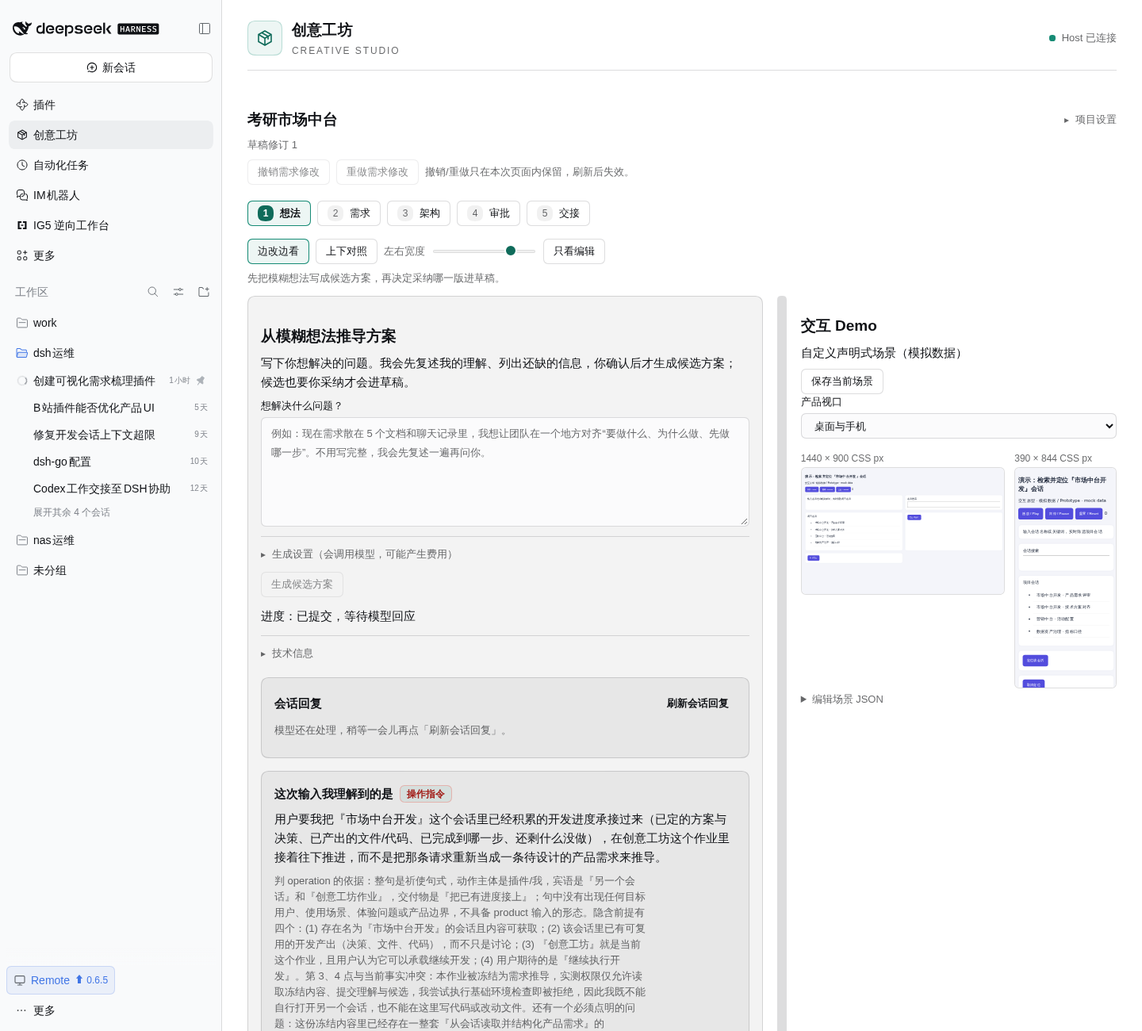
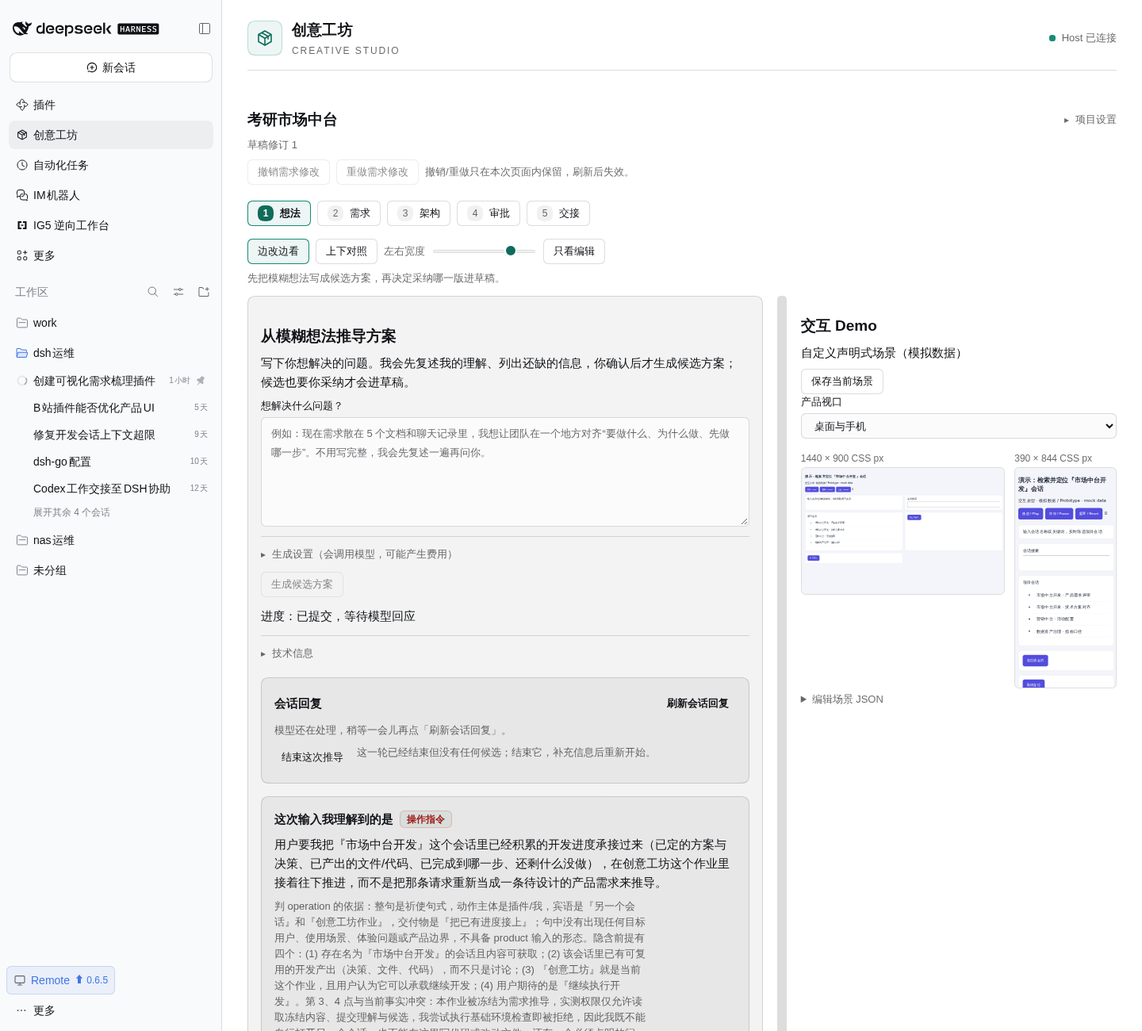
feat: 停滞的推导可手动结束并重新开始（按钮仅在会话未运行时出现）

Changed region(s): [[0.2188, 0.7077, 0.6562, 1.0]]

diff --git a/src/client.ts b/src/client.ts
@@ -14,7 +14,7 @@ const dictionaries = {
     researchTitle:'参考实现研究',researchSource:'选择参考来源',researchWorkspace:'选择研究工作区',researchQuestion:'希望梳理哪些功能和实现？',researchStart:'开始只读研究',researchRefresh:'刷新研究结果',researchEvidence:'实际工具调用',researchScopeNotice:'网页先读取指定页面；Host制品使用可用静态工具。不会执行目标程序或切换共享REA目标。',researchConfirm:'确认创建研究会话并调用模型？选定参考内容可能发送给配置的模型；请确认拥有使用权限。可能产生费用。',researchInferenceNotice:'总结是模型推断；工具返回不等于证明所有功能结论。请核对证据与限制。',
     candidateDemo:'查看/收起候选双端 Demo',candidateDemoNotice:'候选预览：未采纳、未审批。仅模拟声明的交互；不代表生产实现。',
     reportsTitle:'实施报告',reportsNotice:'报告和测试证据由 Agent 自报，未独立验证。会话空闲不表示完成；只有你能确认验收。',reportsRefresh:'刷新报告',reportsEmpty:'尚无实施报告。',reportsAccepted:'用户已验收',reportsPending:'待用户验收',reportsDetails:'文件、验收项与测试证据',reportsEvidence:'附带测试证据（Agent 自报）',reportsNoEvidence:'未附测试证据，仅实现自报。',reportsAccept:'确认验收',reportsRevoke:'撤销验收',reportsAcceptConfirm:'确认已亲自核对该任务、验收项、未完成项及证据？这只确认本报告，不自动验收整个项目。',reportsRevokeConfirm:'撤销这份报告的用户验收？',
-    generateTitle:'从模糊想法推导方案',generateConfirm:'确认创建推导会话并调用模型？这不会开始产品开发。',workspaceId:'Harness 工作区 ID',allProjects:'全部项目',projectSettings:'项目设置',projectSettingsHint:'重命名只改标题。删除项目会同时清掉它的版本、交接包和记录，不能撤销。',layoutExploreHint:'左侧梳理需求，右侧同步看 Demo。',layoutCompareHint:'上方编辑，下方并排对照 Demo 与差异。',layoutWidthHint:'拖动调整左侧与右侧 Demo 的宽度比例。',layoutFocusHint:'暂时收起右侧 Demo，专心编辑。',chooserHint:'选择一个项目继续，或新建一个。',chooserSteps:'使用步骤',chooserStep1Title:'① 写下模糊想法',chooserStep1Body:'一句话也行，不用先写成需求文档。',chooserStep2Title:'② 我复述并提问',chooserStep2Body:'先把理解说清楚，列出还缺的信息，你修正或补充。',chooserStep3Title:'③ 你确认后出候选方案',chooserStep3Body:'候选方案由你采纳才进草稿，再由你审批冻结。',model:'模型',modelDefault:'默认模型（部署配置）',modelsUnavailable:'模型列表不可用，将使用部署默认模型',reasoningEffort:'思考强度',effortModelDefault:'跟随模型推荐',roughIdeaHint:'例如：现在需求散在 5 个文档和聊天记录里，我想让团队在一个地方对齐“要做什么、为什么做、先做哪一步”。不用写完整，我会先复述一遍再问你。',generateSettings:'生成设置（会调用模型，可能产生费用）',generateSettingsHint:'默认使用当前部署的模型与工作区，通常不需要改动。',techDetails:'技术信息',jobIdLabel:'作业 ID',jobProgress:'进度',jobReplyLoading:'正在读取会话回复…',jobReplyWaiting:'模型还在处理，稍等一会儿再点「刷新会话回复」。',effortOff:'关闭',effortLow:'低',effortMedium:'中',effortHigh:'高',effortMax:'最高',roughIdea:'想解决什么问题？',generateProposal:'生成候选方案',refreshProposal:'刷新状态与候选',jobStatus:'作业状态',sessionId:'会话 ID',job_queued:'准备派发',job_submitted:'已提交，等待模型回应',job_finished:'候选已返回',generateNotice:'写下你想解决的问题。我会先复述我的理解、列出还缺的信息，你确认后才生成候选方案；候选也要你采纳才会进草稿。',historyUnavailable:'撤销/重做只在本次页面内保留，刷新后失效。',jobElapsed:'已等待',jobMinutes:'分钟',job_failed:'失败',job_unknown:'结果待确认',unknownJob:'派发结果不明确，不会自动重试。请通过对应会话检查执行状态。',briefTitle:'这次输入我理解到的是',intent_product:'产品需求',intent_operation:'操作指令',intent_unclear:'意图不明确',briefGoals:'目标',briefUsers:'使用者',briefScenarios:'使用场景',briefConstraints:'约束',briefUnknowns:'未知项',briefNeeds:'还缺的材料',briefQuestions:'需要你确认',briefNotProduct:'已判定这不是产品需求，不会据此生成候选需求；请按上面「需要你确认」补充材料后再继续。',briefAnswers:'补充材料或回答',briefAnswersHint:'回答上面的问题，或给出可读取的位置（Host 文件、仓库地址、结论摘要）。',briefContinue:'用这些补充继续推导',briefContinueConfirm:'会把补充内容发送给同一会话（可能产生费用）。继续？',briefConfirm:'确认理解，开始推导',briefConfirmConfirm:'确认后会让同一会话据此提交候选需求（可能产生费用）。确认？',briefConfirmed:'理解已确认',briefAbandon:'结束这次推导',briefAbandonConfirm:'结束后可以重新输入一条更清楚的需求。结束？',briefContinueStale:'该项目已被修改，请刷新后再继续。',jobReply:'会话回复',jobReplyRefresh:'刷新会话回复',jobReplyEmpty:'这一轮模型没有写出可见的文字回复。可以看下方候选方案；如果没有候选，点「结束这次推导」重新开始。',jobReplyRecords:'读取到历史记录',jobReplyEndAttempt:'结束这次推导',jobReplyEndHint:'这一轮已经结束但没有任何候选；结束它，补充信息后重新开始。',jobReplyEndConfirm:'结束这次推导？这一轮的会话记录会保留，但不会再生成候选。',jobReplyNeedsRestart:'读取会话回复需要重启一次 dsh web（Host 侧新端点尚未加载）。',jobReplyRunning:'会话仍在运行…',jobReplyEnded:'会话本轮已结束，正在等你确认或补充。',jobReplyTruncated:'（回复过长，已截断）',briefEdit:'修正理解',briefEditHint:'改完保存后，下一轮推导会以你改过的理解为准。',briefSave:'保存理解',briefCancel:'取消',briefIntentLabel:'这是什么类型的输入',briefRestatedLabel:'复述',briefInterpretationLabel:'判断依据',briefListHint:'每行一条',briefSaved:'理解已保存。',
+    generateTitle:'从模糊想法推导方案',generateConfirm:'确认创建推导会话并调用模型？这不会开始产品开发。',workspaceId:'Harness 工作区 ID',allProjects:'全部项目',projectSettings:'项目设置',projectSettingsHint:'重命名只改标题。删除项目会同时清掉它的版本、交接包和记录，不能撤销。',layoutExploreHint:'左侧梳理需求，右侧同步看 Demo。',layoutCompareHint:'上方编辑，下方并排对照 Demo 与差异。',layoutWidthHint:'拖动调整左侧与右侧 Demo 的宽度比例。',layoutFocusHint:'暂时收起右侧 Demo，专心编辑。',chooserHint:'选择一个项目继续，或新建一个。',chooserSteps:'使用步骤',chooserStep1Title:'① 写下模糊想法',chooserStep1Body:'一句话也行，不用先写成需求文档。',chooserStep2Title:'② 我复述并提问',chooserStep2Body:'先把理解说清楚，列出还缺的信息，你修正或补充。',chooserStep3Title:'③ 你确认后出候选方案',chooserStep3Body:'候选方案由你采纳才进草稿，再由你审批冻结。',model:'模型',modelDefault:'默认模型（部署配置）',modelsUnavailable:'模型列表不可用，将使用部署默认模型',reasoningEffort:'思考强度',effortModelDefault:'跟随模型推荐',roughIdeaHint:'例如：现在需求散在 5 个文档和聊天记录里，我想让团队在一个地方对齐“要做什么、为什么做、先做哪一步”。不用写完整，我会先复述一遍再问你。',generateSettings:'生成设置（会调用模型，可能产生费用）',generateSettingsHint:'默认使用当前部署的模型与工作区，通常不需要改动。',techDetails:'技术信息',jobIdLabel:'作业 ID',jobProgress:'进度',jobReplyLoading:'正在读取会话回复…',jobReplyWaiting:'模型还在处理，稍等一会儿再点「刷新会话回复」。',effortOff:'关闭',effortLow:'低',effortMedium:'中',effortHigh:'高',effortMax:'最高',roughIdea:'想解决什么问题？',generateProposal:'生成候选方案',refreshProposal:'刷新状态与候选',jobStatus:'作业状态',sessionId:'会话 ID',job_queued:'准备派发',job_submitted:'已提交，等待模型回应',job_finished:'候选已返回',generateNotice:'写下你想解决的问题。我会先复述我的理解、列出还缺的信息，你确认后才生成候选方案；候选也要你采纳才会进草稿。',historyUnavailable:'撤销/重做只在本次页面内保留，刷新后失效。',jobElapsed:'已等待',jobMinutes:'分钟',job_failed:'失败',job_unknown:'结果待确认',unknownJob:'派发结果不明确，不会自动重试。请通过对应会话检查执行状态。',briefTitle:'这次输入我理解到的是',intent_product:'产品需求',intent_operation:'操作指令',intent_unclear:'意图不明确',briefGoals:'目标',briefUsers:'使用者',briefScenarios:'使用场景',briefConstraints:'约束',briefUnknowns:'未知项',briefNeeds:'还缺的材料',briefQuestions:'需要你确认',briefNotProduct:'已判定这不是产品需求，不会据此生成候选需求；请按上面「需要你确认」补充材料后再继续。',briefAnswers:'补充材料或回答',briefAnswersHint:'回答上面的问题，或给出可读取的位置（Host 文件、仓库地址、结论摘要）。',briefContinue:'用这些补充继续推导',briefContinueConfirm:'会把补充内容发送给同一会话（可能产生费用）。继续？',briefConfirm:'确认理解，开始推导',briefConfirmConfirm:'确认后会让同一会话据此提交候选需求（可能产生费用）。确认？',briefConfirmed:'理解已确认',briefAbandon:'结束这次推导',briefAbandonConfirm:'结束后可以重新输入一条更清楚的需求。结束？',briefContinueStale:'该项目已被修改，请刷新后再继续。',jobReply:'会话回复',jobReplyRefresh:'刷新会话回复',jobReplyEmpty:'这一轮模型没有写出可见的文字回复。可以看下方候选方案；如果没有候选，点「结束这次推导」重新开始。',jobReplyRecords:'读取到历史记录',jobReplyEndAttempt:'结束这次推导',jobReplyEndHint:'如果这一轮一直没给出候选，可以结束它，补充信息后重新开始。',jobReplyEndConfirm:'结束这次推导？这一轮的会话记录会保留，但不会再生成候选。',jobReplyNeedsRestart:'读取会话回复需要重启一次 dsh web（Host 侧新端点尚未加载）。',jobReplyRunning:'会话仍在运行…',jobReplyEnded:'会话本轮已结束，正在等你确认或补充。',jobReplyTruncated:'（回复过长，已截断）',briefEdit:'修正理解',briefEditHint:'改完保存后，下一轮推导会以你改过的理解为准。',briefSave:'保存理解',briefCancel:'取消',briefIntentLabel:'这是什么类型的输入',briefRestatedLabel:'复述',briefInterpretationLabel:'判断依据',briefListHint:'每行一条',briefSaved:'理解已保存。',
     referencesTitle:'参考产品',referencesNotice:'手动指定来源；登记不等于完成研究。本地路径指 Host 文件，不是当前浏览器的电脑文件。',referenceName:'产品或资料名称',sourceKind:'来源类型',source_url:'网页',source_repository:'代码仓库', 'source_host-file':'Host 本地文件', 'source_saved-analysis':'已有分析',sourceLocation:'网址或 Host 文件路径',referenceNotes:'想借鉴的内容',referenceLicense:'许可证/使用范围',addReference:'添加参考',newReference:'新建参考',renameProject:'重命名项目',deleteProject:'删除项目',confirmDeleteProject:'删除后，该项目下的需求、版本、交接包与报告都会从这里移除，且无法恢复。确认删除？',errorProjectMissing:'该项目已不存在（可能已被删除），请刷新列表。',rejectProposal:'拒绝候选',confirmReject:'拒绝此候选？当前草稿和审批版本不会改变。',evidenceOpen:'查看原始证据',evidenceNext:'下一页',evidenceRawNotice:'原始工具结果（不可信参考数据；分页展示）',architectureGraph:'架构依赖图',architectureGraphNote:'箭头指向依赖项。这是产品设计中的声明关系，不代表实际运行调用。',editReference:'编辑来源',saveReference:'保存来源',discardReferenceEdits:'放弃未保存的来源编辑并切换？',origin_manual:'手动指定',origin_recommended:'推荐',referenceUnverified:'尚未验证具体功能与实现',removeReference:'移除来源',removeReferenceConfirm:'从项目移除此参考？不会删除原文件。',
     featureMatrix:'需求 × 参考功能对照',featureNotice:'空白代表未知，不代表产品没有此功能。当前为人工研究笔记，尚非 REA 实测证据。',newFeature:'新功能笔记',feature_name:'功能名称',feature_description:'具体功能',feature_implementation:'实现理解',feature_adaptation:'如何借鉴',feature_sourceLocator:'出处/代码位置',assessment:'证据程度',assessment_unknown:'未知/待核实',assessment_inferred:'推断',saveFeature:'保存功能笔记',removeFeature:'移除功能笔记',removeFeatureConfirm:'移除此功能笔记？',referenceFeatureCount:'功能笔记',actions:'操作',referencesEmpty:'还没有参考来源。用下方表单添加网页、代码仓库、Host 文件或已有分析。',featureMatrixEmpty:'需要至少一个参考来源和一条需求，才会生成对照表。',featureMatrixHint:'表格行是需求、列是参考来源；点单元格里的功能可展开实现理解与借鉴方式。',editFeature:'编辑此功能笔记',collapse:'收起',cancel:'取消',valueNotSet:'未填写',
     layoutExplore:'边改边看',layoutCompare:'上下对照',layoutWidth:'左右宽度',layoutFocus:'只看编辑',layoutRequirements:'需求导图',layoutArchitecture:'产品架构',layoutReferences:'参考研究',layoutVersions:'版本对比',
@@ -49,7 +49,7 @@ const dictionaries = {
     researchTitle:'Reference implementation research',researchSource:'Select reference',researchWorkspace:'Select research workspace',researchQuestion:'Which features and implementation details should be examined?',researchStart:'Start read-only research',researchRefresh:'Refresh research',researchEvidence:'Actual tool calls',researchScopeNotice:'Web references read the selected page; Host artifacts use available static tools. No target execution or shared REA target switching.',researchConfirm:'Create a research session and call the model? Selected source content may be sent to your configured model. Confirm you have permission; charges may apply.',researchInferenceNotice:'The summary is model inference. Tool output does not prove every feature claim. Review evidence and limitations.',
     candidateDemo:'Show/hide candidate dual-viewport demo',candidateDemoNotice:'Candidate preview, not adopted or approved. Simulated declared interactions only, not a production implementation.',
     reportsTitle:'Implementation reports',reportsNotice:'Reports and test evidence are agent-reported, not independently verified. An idle session is not completion. Only you may accept work.',reportsRefresh:'Refresh reports',reportsEmpty:'No implementation reports yet.',reportsAccepted:'Accepted by user',reportsPending:'Awaiting user acceptance',reportsDetails:'Files, acceptance items and test evidence',reportsEvidence:'Test evidence attached (agent-reported)',reportsNoEvidence:'No test evidence; implementation self-report only.',reportsAccept:'Accept report',reportsRevoke:'Revoke acceptance',reportsAcceptConfirm:'Have you personally checked this task, acceptance items, unfinished work and evidence? This accepts only this report, not the entire project.',reportsRevokeConfirm:'Revoke your acceptance of this report?',
-    generateTitle:'Turn an idea into a proposal',generateConfirm:'Create a proposal session and call the model? This does not begin product development.',workspaceId:'Harness workspace ID',allProjects:'All projects',projectSettings:'Project settings',projectSettingsHint:'Renaming only changes the title. Deleting a project also removes its versions, handoffs and records; it cannot be undone.',layoutExploreHint:'Edit on the left and watch the demo on the right.',layoutCompareHint:'Edit on top; compare the demo and the diff below.',layoutWidthHint:'Drag to resize the editor and the demo.',layoutFocusHint:'Hide the demo for now and focus on editing.',chooserHint:'Pick a project to continue, or create a new one.',model:'Model',modelDefault:'Default model (deployment)',modelsUnavailable:'Model list unavailable; the deployment default is used',reasoningEffort:'Reasoning effort',effortModelDefault:'Follow model recommendation',roughIdeaHint:'For example: requirements are scattered across five documents and chats, and the team needs one place to agree what to build, why, and what comes first. A rough note is fine — I will restate it before asking questions.',generateSettings:'Generation settings (calls the model; charges may apply)',generateSettingsHint:'Uses the deployed model and workspace by default; you normally do not need to change these.',techDetails:'Technical details',jobIdLabel:'Job ID',jobProgress:'Progress',jobReplyLoading:'Reading the session reply…',jobReplyWaiting:'The model is still working. Wait a moment, then refresh the session reply.',effortOff:'Off',effortLow:'Low',effortMedium:'Medium',effortHigh:'High',effortMax:'Highest',roughIdea:'What problem should this solve?',generateProposal:'Generate proposal',refreshProposal:'Refresh status and proposals',jobStatus:'Job status',sessionId:'Session ID',job_queued:'Preparing',job_submitted:'Submitted, awaiting the model',job_finished:'Proposal received',generateNotice:'Describe the problem you want to solve. I will restate my understanding and list what is missing. Proposals are generated only after you confirm, and enter the draft only after you adopt them.',historyUnavailable:'Undo and redo live in this page only; reloading clears them.',jobElapsed:'waiting',jobMinutes:'min',job_failed:'Failed',job_unknown:'Outcome unknown',unknownJob:'Dispatch outcome is uncertain. No automatic retry. Check the referenced session.',briefTitle:'What I understood',intent_product:'Product idea',intent_operation:'Instruction',intent_unclear:'Unclear intent',briefGoals:'Goals',briefUsers:'Users',briefScenarios:'Scenarios',briefConstraints:'Constraints',briefUnknowns:'Unknowns',briefNeeds:'Missing material',briefQuestions:'Needs your confirmation',briefNotProduct:'This is not a product idea, so no candidate requirements were generated. Add the material listed under "Needs your confirmation" and continue.',briefAnswers:'Answers or material',briefAnswersHint:'Answer the questions above, or give a readable location (host file, repository, summary).',briefContinue:'Continue with these answers',briefContinueConfirm:'Your answers are sent to the same session (charges may apply). Continue?',briefConfirm:'Confirm and draft requirements',briefConfirmConfirm:'The session will draft candidate requirements from this understanding (charges may apply). Continue?',briefConfirmed:'Understanding confirmed',briefAbandon:'End this attempt',briefAbandonConfirm:'Ending lets you start again with a clearer request. End it?',briefContinueStale:'This project changed. Reload before continuing.',jobReply:'Session reply',jobReplyRefresh:'Refresh session reply',jobReplyEmpty:'This turn produced no visible text reply. Check the proposals below; if there are none, end the attempt and start again.',jobReplyRecords:'history records read',jobReplyEndAttempt:'End this attempt',jobReplyEndHint:'This attempt ended without a proposal. End it, add what is missing, then start again.',jobReplyEndConfirm:'End this attempt? The session record stays, but no further proposals will be generated.',jobReplyNeedsRestart:'Reading the session reply needs one dsh web restart; the Host has not loaded the new endpoint yet.',jobReplyRunning:'The session is still running…',jobReplyEnded:'This turn ended; it is waiting for your confirmation or material.',jobReplyTruncated:'(truncated)',briefEdit:'Correct it',briefEditHint:'Saved corrections become the basis of the next round.',briefSave:'Save understanding',briefCancel:'Cancel',briefIntentLabel:'What kind of input is this',briefRestatedLabel:'Restatement',briefInterpretationLabel:'Why I judged it this way',briefListHint:'One per line',briefSaved:'Understanding saved.',
+    generateTitle:'Turn an idea into a proposal',generateConfirm:'Create a proposal session and call the model? This does not begin product development.',workspaceId:'Harness workspace ID',allProjects:'All projects',projectSettings:'Project settings',projectSettingsHint:'Renaming only changes the title. Deleting a project also removes its versions, handoffs and records; it cannot be undone.',layoutExploreHint:'Edit on the left and watch the demo on the right.',layoutCompareHint:'Edit on top; compare the demo and the diff below.',layoutWidthHint:'Drag to resize the editor and the demo.',layoutFocusHint:'Hide the demo for now and focus on editing.',chooserHint:'Pick a project to continue, or create a new one.',model:'Model',modelDefault:'Default model (deployment)',modelsUnavailable:'Model list unavailable; the deployment default is used',reasoningEffort:'Reasoning effort',effortModelDefault:'Follow model recommendation',roughIdeaHint:'For example: requirements are scattered across five documents and chats, and the team needs one place to agree what to build, why, and what comes first. A rough note is fine — I will restate it before asking questions.',generateSettings:'Generation settings (calls the model; charges may apply)',generateSettingsHint:'Uses the deployed model and workspace by default; you normally do not need to change these.',techDetails:'Technical details',jobIdLabel:'Job ID',jobProgress:'Progress',jobReplyLoading:'Reading the session reply…',jobReplyWaiting:'The model is still working. Wait a moment, then refresh the session reply.',effortOff:'Off',effortLow:'Low',effortMedium:'Medium',effortHigh:'High',effortMax:'Highest',roughIdea:'What problem should this solve?',generateProposal:'Generate proposal',refreshProposal:'Refresh status and proposals',jobStatus:'Job status',sessionId:'Session ID',job_queued:'Preparing',job_submitted:'Submitted, awaiting the model',job_finished:'Proposal received',generateNotice:'Describe the problem you want to solve. I will restate my understanding and list what is missing. Proposals are generated only after you confirm, and enter the draft only after you adopt them.',historyUnavailable:'Undo and redo live in this page only; reloading clears them.',jobElapsed:'waiting',jobMinutes:'min',job_failed:'Failed',job_unknown:'Outcome unknown',unknownJob:'Dispatch outcome is uncertain. No automatic retry. Check the referenced session.',briefTitle:'What I understood',intent_product:'Product idea',intent_operation:'Instruction',intent_unclear:'Unclear intent',briefGoals:'Goals',briefUsers:'Users',briefScenarios:'Scenarios',briefConstraints:'Constraints',briefUnknowns:'Unknowns',briefNeeds:'Missing material',briefQuestions:'Needs your confirmation',briefNotProduct:'This is not a product idea, so no candidate requirements were generated. Add the material listed under "Needs your confirmation" and continue.',briefAnswers:'Answers or material',briefAnswersHint:'Answer the questions above, or give a readable location (host file, repository, summary).',briefContinue:'Continue with these answers',briefContinueConfirm:'Your answers are sent to the same session (charges may apply). Continue?',briefConfirm:'Confirm and draft requirements',briefConfirmConfirm:'The session will draft candidate requirements from this understanding (charges may apply). Continue?',briefConfirmed:'Understanding confirmed',briefAbandon:'End this attempt',briefAbandonConfirm:'Ending lets you start again with a clearer request. End it?',briefContinueStale:'This project changed. Reload before continuing.',jobReply:'Session reply',jobReplyRefresh:'Refresh session reply',jobReplyEmpty:'This turn produced no visible text reply. Check the proposals below; if there are none, end the attempt and start again.',jobReplyRecords:'history records read',jobReplyEndAttempt:'End this attempt',jobReplyEndHint:'If this attempt never produces a proposal, end it, add what is missing, then start again.',jobReplyEndConfirm:'End this attempt? The session record stays, but no further proposals will be generated.',jobReplyNeedsRestart:'Reading the session reply needs one dsh web restart; the Host has not loaded the new endpoint yet.',jobReplyRunning:'The session is still running…',jobReplyEnded:'This turn ended; it is waiting for your confirmation or material.',jobReplyTruncated:'(truncated)',briefEdit:'Correct it',briefEditHint:'Saved corrections become the basis of the next round.',briefSave:'Save understanding',briefCancel:'Cancel',briefIntentLabel:'What kind of input is this',briefRestatedLabel:'Restatement',briefInterpretationLabel:'Why I judged it this way',briefListHint:'One per line',briefSaved:'Understanding saved.',
     referencesTitle:'Product references',referencesNotice:'Register sources manually; this is not completed research. Local paths refer to the Host, not your browser computer.',referenceName:'Product or resource name',sourceKind:'Source type',source_url:'Web page',source_repository:'Repository','source_host-file':'Host file','source_saved-analysis':'Saved analysis',sourceLocation:'URL or Host file path',referenceNotes:'What to learn from it',referenceLicense:'License / permitted use',addReference:'Add reference',newReference:'New reference',renameProject:'Rename project',deleteProject:'Delete project',confirmDeleteProject:'This removes the project with its requirements, versions, handoff archives and reports. This cannot be undone. Delete it?',errorProjectMissing:'That project no longer exists (it may have been deleted). Reload the list.',rejectProposal:'Reject proposal',confirmReject:'Reject this proposal? Current draft and approved versions remain unchanged.',evidenceOpen:'View raw evidence',evidenceNext:'Next page',evidenceRawNotice:'Raw tool result (untrusted reference data; paginated)',architectureGraph:'Architecture dependencies',architectureGraphNote:'Arrows point to dependencies. These are declared design relationships, not observed runtime calls.',editReference:'Edit source',saveReference:'Save source',discardReferenceEdits:'Discard unsaved source edits and switch?',origin_manual:'Manually selected',origin_recommended:'Recommended',referenceUnverified:'Features and implementation not yet verified',removeReference:'Remove source',removeReferenceConfirm:'Remove this reference? The original file is not deleted.',
     featureMatrix:'Requirements × reference features',featureNotice:'Empty means unknown, not absent. These are analyst notes, not REA observations.',newFeature:'New feature note',feature_name:'Feature name',feature_description:'Functionality',feature_implementation:'Implementation understanding',feature_adaptation:'Adaptation approach',feature_sourceLocator:'Source / code location',assessment:'Evidence level',assessment_unknown:'Unknown / unverified',assessment_inferred:'Inferred',saveFeature:'Save feature note',removeFeature:'Remove feature note',removeFeatureConfirm:'Remove this feature note?',referenceFeatureCount:'Feature notes',actions:'Actions',referencesEmpty:'No references yet. Add a web page, repository, Host file or saved analysis below.',featureMatrixEmpty:'Add at least one reference and one requirement to generate the matrix.',featureMatrixHint:'Rows are requirements, columns are references; click a feature in a cell to expand its implementation and adaptation notes.',editFeature:'Edit this feature note',collapse:'Collapse',cancel:'Cancel',valueNotSet:'Not set',
     layoutExplore:'Edit and preview',layoutCompare:'Stacked compare',layoutWidth:'Pane width',layoutFocus:'Editor only',layoutRequirements:'Requirements',layoutArchitecture:'Architecture',layoutReferences:'References',layoutVersions:'Version comparison',

diff --git a/src/client/generate.tsx b/src/client/generate.tsx
@@ -55,7 +55,7 @@ function JobReplyBlock({jobId,active,t,load,refreshKey,canEnd,endAttempt}:{jobId
   <h4>{t('jobReply')}<button type="button" className="cs-quiet" disabled={loading} onClick={fetchReply}>{t('jobReplyRefresh')}</button></h4>
   {unavailable?<p className="cs-hint">{t('jobReplyNeedsRestart')}</p>:error?<p role="alert" className="cs-error">{error}</p>:reply?.text?<div className="cs-reply-text">{reply.text}{reply.truncated&&<span className="cs-hint"> {t('jobReplyTruncated')}</span>}</div>:<p className="cs-hint">{loading?t('jobReplyLoading'):active?t('jobReplyWaiting'):`${t('jobReplyEmpty')}${reply?`（${t('jobReplyRecords')} ${reply.records??0}）`:''}`}</p>}
   {reply&&(reply.text||reply.running)&&<p className="cs-hint">{reply.running?t('jobReplyRunning'):t('jobReplyEnded')}</p>}
-  {canEnd&&<div className="cs-row-actions"><button type="button" className="cs-quiet" disabled={loading} onClick={endAttempt}>{t('jobReplyEndAttempt')}</button><small className="cs-hint">{t('jobReplyEndHint')}</small></div>}
+  {canEnd&&!reply?.running&&<div className="cs-row-actions"><button type="button" className="cs-quiet" disabled={loading} onClick={endAttempt}>{t('jobReplyEndAttempt')}</button><small className="cs-hint">{t('jobReplyEndHint')}</small></div>}
  </section>;
 }
 export function GeneratePanel({project,busy,t,generate,refresh,listWorkspaces,listModels,continueJob,abandonJob,editBrief,readReply}:{project:ProjectSnapshot;busy:boolean;t:(key:string)=>string;listWorkspaces:()=>Promise<WorkspaceOption[]>;listModels:()=>Promise<ModelCatalogView>;generate:(request:string,workspaceId:string,model:ModelChoice|undefined)=>void;refresh:()=>void;continueJob:(jobId:string,answers:string,confirmed:boolean)=>Promise<ProjectSnapshot>;abandonJob:(jobId:string)=>Promise<ProjectSnapshot>;editBrief:(jobId:string,brief:BriefInfo)=>Promise<ProjectSnapshot>;readReply:(jobId:string)=>Promise<JobReply>}):React.ReactElement {
@@ -76,7 +76,7 @@ export function GeneratePanel({project,busy,t,generate,refresh,listWorkspaces,li
  </details>
  <div className="cs-row-actions"><button disabled={busy||!!active||!request.trim()||!workspace.trim()}>{t('generateProposal')}</button></div>
  </form>{job&&<div role="status" className="cs-job-status"><p>{t('jobProgress')}：{t('job_'+job.status)}</p>{job.status==='unknown'&&<p className="cs-hint">{t('unknownJob')}</p>}<details className="cs-advanced"><summary>{t('techDetails')}</summary><small>{t('sessionId')}：{job.sessionId}</small><br/><small>{t('jobIdLabel')}：{job.id}</small></details></div>}
- {job&&<JobReplyBlock jobId={job.id} active={!!active} t={t} load={readReply} refreshKey={project.projectRevision} canEnd={!!active&&!project.proposals.length} endAttempt={()=>{if(window.confirm(t('jobReplyEndConfirm')))void act(()=>abandonJob(job.id));}}/>}
+ {job&&<JobReplyBlock jobId={job.id} active={!!active} t={t} load={readReply} refreshKey={project.projectRevision} canEnd={!!active} endAttempt={()=>{if(window.confirm(t('jobReplyEndConfirm')))void act(()=>abandonJob(job.id));}}/>}
  {job?.brief&&(editOpen?<BriefEditor brief={job.brief} busy={busy||busyLocal} t={t} cancel={()=>setEditOpen(false)} save={brief=>{void (async()=>{await act(()=>editBrief(job.id,brief));setEditOpen(false);})();}}/>:<>
   <BriefCard brief={job.brief} t={t}/>
   {active&&<div className="cs-row-actions"><button type="button" className="cs-quiet" disabled={busy||busyLocal} onClick={()=>setEditOpen(true)}>{t('briefEdit')}</button></div>}
